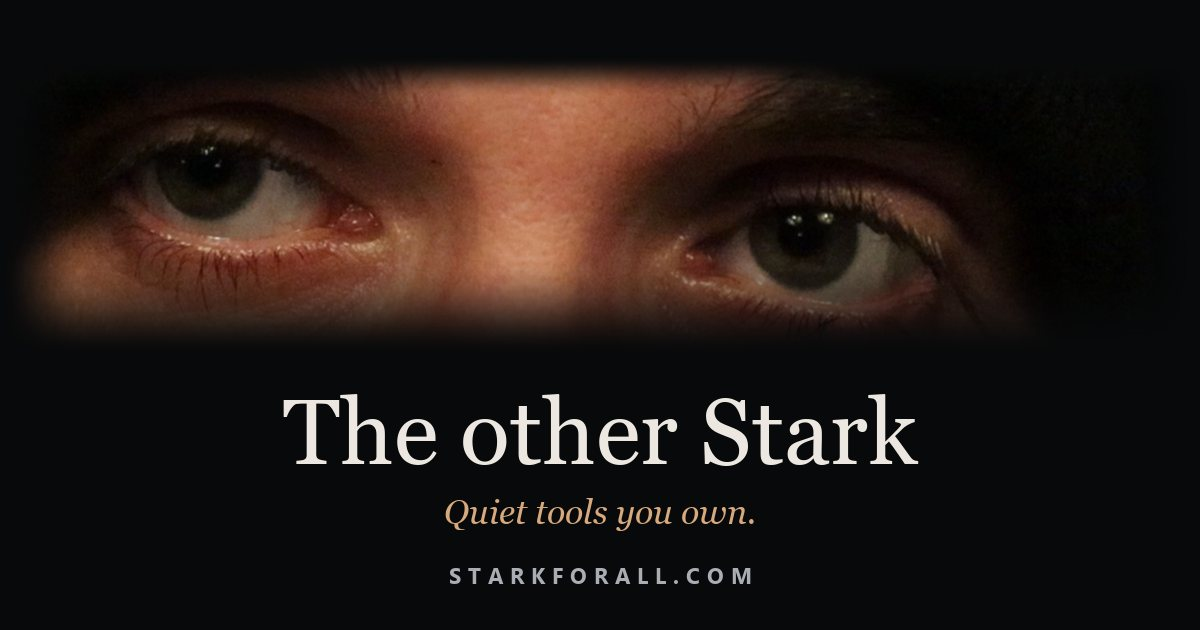
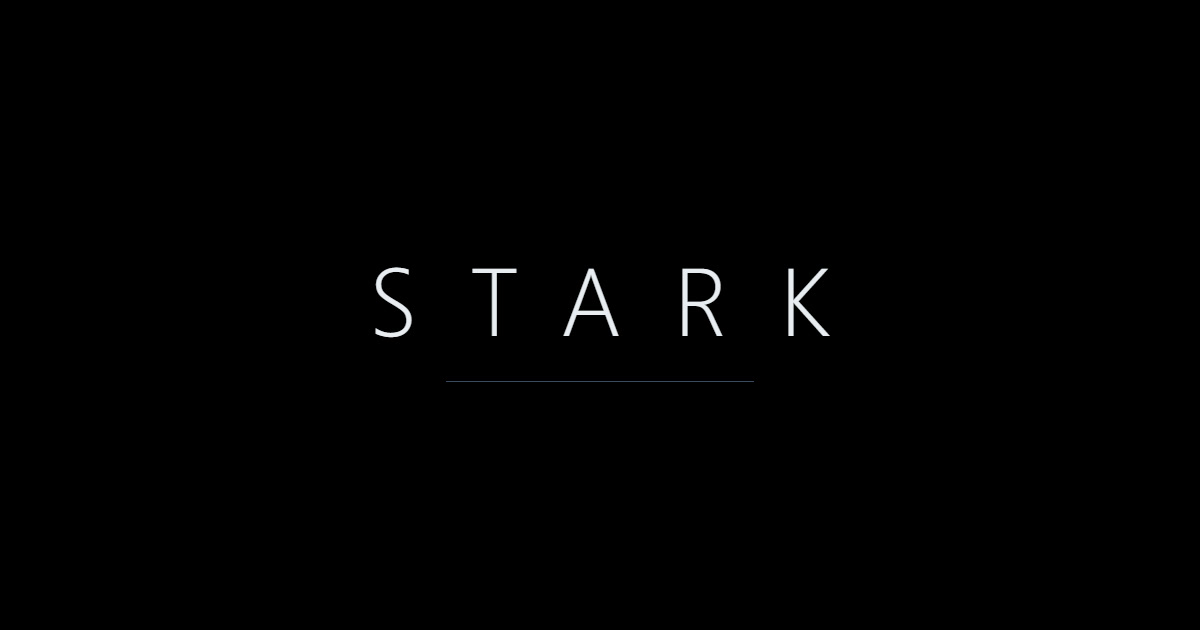
Rebuild share page in the APERTURE look; fifth message (Apex); ?site mode; wordmark images

diff --git a/index.html b/index.html
@@ -9,7 +9,7 @@
 <title>Share The other Stark</title>
 <meta name="description" content="One tap to share The other Stark: quiet tools you own.">
 <link rel="canonical" href="https://starkforall.com/other/">
-<meta name="theme-color" content="#08090a">
+<meta name="theme-color" content="#000000">
 <meta property="og:type" content="website">
 <meta property="og:site_name" content="Stark">
 <meta property="og:title" content="The other Stark">
@@ -19,39 +19,48 @@
 <meta property="og:image:type" content="image/jpeg">
 <meta property="og:image:width" content="1200">
 <meta property="og:image:height" content="630">
-<meta property="og:image:alt" content="A pair of eyes in low light above the words: The other Stark. Quiet tools you own.">
+<meta property="og:image:alt" content="STARK, a wordmark in pale capitals on black.">
 <meta name="twitter:card" content="summary_large_image">
 <meta name="twitter:title" content="The other Stark">
 <meta name="twitter:description" content="Everyone's searching Stark. We're the other one. Tools you own: pay once, works offline.">
 <meta name="twitter:image" content="https://starkforall.com/other/img/cover-1200x630.jpg">
 <link rel="icon" href="favicon.svg" type="image/svg+xml">
 <link rel="stylesheet" href="style.css">
-<script src="share.js" defer></script>
 </head>
 <body>
 <main>
 <header>
-<img class="poster" src="img/poster.jpg" width="540" height="960" alt="A pair of calm eyes in low light. Caption: Everyone's searching Stark.">
-<div><p class="kicker">STARK</p><h1>The other Stark</h1><p class="sub">One tap. Pick a message, then send it.</p></div>
+<p class="wm">STARK</p>
+<div class="line" aria-hidden="true"></div>
+<h1 id="title">The other Stark</h1>
+<p class="sub" id="sub">One tap. Pick a message, then send it.</p>
+<img class="frame only-o" src="img/frame.jpg" width="720" height="150" alt="A frame from the video: We're the other one.">
 </header>
-<button class="go" id="go" type="button" disabled>Share The other Stark</button>
+<button class="go" id="go" type="button" disabled><span class="go-t" id="go-t">Share The other Stark</span><span class="go-s" id="go-s">Video, message and link</span></button>
 <p class="status" id="status" role="status" aria-live="polite">Loading...</p>
 <section aria-labelledby="mh">
-<h2 id="mh">Message <span class="hint">(swipe or tap 1 to 4)</span></h2>
+<h2 id="mh">Message <span class="hint">swipe or tap 1 to 5</span></h2>
 <div class="msgs" id="msgs" tabindex="0" aria-label="Message choices, swipe sideways">
-<article class="msg" data-i="0"><p>Everyone's searching Stark. We're the other one. No suits of armour. Just tools you own: pay once, works offline, your data stays yours. https://starkforall.com/the-other-stark/</p></article>
-<article class="msg" data-i="1"><p>Quiet, private tools you own. Pay once, works offline, and your data stays on your computer. Try them free in your browser, nothing to install: https://starkforall.com/the-other-stark/</p></article>
-<article class="msg" data-i="2"><p>Scam calls, lost family papers, monthly fees, data leaving your home. The other Stark makes calm tools for ordinary trouble: no account, no cloud, nothing uploaded. Try one free: https://starkforall.com/the-other-stark/</p></article>
-<article class="msg" data-i="3"><p>Made by one of the broken, for everyone who has been last. The last shall be first. Tools you own: pay once, works offline, your data stays yours. https://starkforall.com/the-other-stark/</p></article>
+<article class="msg" data-m="o"><p>Everyone's searching Stark. We're the other one. No suits of armour. Just tools you own: pay once, works offline, your data stays yours. https://starkforall.com/the-other-stark/</p></article>
+<article class="msg" data-m="o"><p>Quiet, private tools you own. Pay once, works offline, and your data stays on your computer. Try them free in your browser, nothing to install: https://starkforall.com/the-other-stark/</p></article>
+<article class="msg" data-m="o"><p>Scam calls, lost family papers, monthly fees, data leaving your home. The other Stark makes calm tools for ordinary trouble: no account, no cloud, nothing uploaded. Try one free: https://starkforall.com/the-other-stark/</p></article>
+<article class="msg" data-m="o"><p>Made by one of the broken, for everyone who has been last. The last shall be first. Tools you own: pay once, works offline, your data stays yours. https://starkforall.com/the-other-stark/</p></article>
+<article class="msg" data-m="o"><p>Apex Protocol: cultivate creation, never overcome it. Ten apps run with the plug pulled, cannot read your data, ask for no account. Check the file. https://starkforall.com/apex/</p></article>
+<article class="msg" data-m="s"><p>Pull the plug. It still works. Ten Stark apps run offline, cannot read your data, ask for no account. Try them free: https://starkforall.com/try/</p></article>
+<article class="msg" data-m="s"><p>Pull the plug. It still works. Quiet tools you own: pay once, works offline, and your data stays on your computer. https://starkforall.com/</p></article>
+<article class="msg" data-m="s"><p>Pull the plug. It still works. Try one free in your browser, nothing to install, or see everything Stark makes: https://starkforall.com/try/ https://starkforall.com/</p></article>
+<article class="msg" data-m="s"><p>Scam calls, lost family papers, monthly fees, data leaving your home. Stark makes calm tools for ordinary trouble: no account, no cloud, nothing uploaded. Try one free: https://starkforall.com/try/</p></article>
+<article class="msg" data-m="s"><p>Apex Protocol: cultivate creation, never overcome it. Ten apps run with the plug pulled, cannot read your data, ask for no account. Check the file. https://starkforall.com/apex/</p></article>
 </div>
 <div class="tabs" id="tabs" role="group" aria-label="Choose a message"></div>
 </section>
 <section aria-labelledby="ah">
 <h2 id="ah">Or open an app with it filled in</h2>
 <ul class="apps" id="apps"></ul>
-<p class="save"><a class="btn" href="other-stark.mp4" download="The-other-Stark.mp4">Save the video</a></p>
+<p class="save only-o"><a class="btn" href="other-stark.mp4" download="The-other-Stark.mp4">Save the video</a></p>
 </section>
 </main>
-<footer><p>Made by Stark. <a href="https://starkforall.com/the-other-stark/">starkforall.com/the-other-stark</a></p></footer>
+<footer><p class="wm small">STARK</p><p id="foot">Made by Stark. <a href="https://starkforall.com/the-other-stark/">starkforall.com/the-other-stark</a></p></footer>
+<script src="share.js"></script>
 </body>
 </html>

diff --git a/style.css b/style.css
@@ -1,33 +1,40 @@
-:root{color-scheme:dark;--bg:#08090a;--panel:#0f1113;--line:#272c32;--text:#ece8e1;--muted:#a9aeb5;--accent:#d8a97c;--focus:#9cc4ff;--sans:system-ui,-apple-system,"Segoe UI",Roboto,"Helvetica Neue",Arial,sans-serif;--serif:"Iowan Old Style","Palatino Linotype",Palatino,Georgia,serif}
+:root{color-scheme:dark;--bg:#000;--ink:#E9EDF2;--mut:#E9EDF2a6;--dim:#E9EDF266;--line:#E9EDF22e;--acc:#9CC4FF;--f:"Segoe UI Variable Text","Segoe UI",system-ui,-apple-system,Roboto,sans-serif;--d:Bahnschrift,"Segoe UI Variable Display","Segoe UI",system-ui,-apple-system,Roboto,sans-serif}
 *,*::before,*::after{box-sizing:border-box}
-html{-webkit-text-size-adjust:100%;text-size-adjust:100%}
-body{margin:0;background:var(--bg);color:var(--text);font:1.0625rem/1.5 var(--sans);overflow-x:hidden;overflow-wrap:break-word}
+html{background:var(--bg);-webkit-text-size-adjust:100%;text-size-adjust:100%}
+body{margin:0;background:var(--bg);color:var(--ink);font:400 1.0625rem/1.55 var(--f);font-variant-numeric:tabular-nums;overflow-x:hidden;overflow-wrap:break-word;padding-top:env(safe-area-inset-top)}
 h1,h2,p,ul{margin:0}ul{padding:0;list-style:none}
-a{color:var(--accent)}
-:focus-visible{outline:2px solid var(--focus);outline-offset:3px;border-radius:6px}
+a{color:var(--acc);text-underline-offset:3px}
+:focus-visible{outline:2px solid var(--acc);outline-offset:3px;border-radius:2px}
 [hidden]{display:none!important}
-main{max-width:34rem;margin:0 auto;padding:1rem max(16px,env(safe-area-inset-right)) 1.5rem max(16px,env(safe-area-inset-left))}
-header{display:flex;gap:1rem;align-items:center;margin-bottom:1.25rem}
-.poster{width:4.5rem;height:auto;aspect-ratio:9/16;object-fit:cover;border-radius:10px;border:1px solid var(--line);flex:none}
-.kicker{color:var(--accent);font-size:.78rem;font-weight:700;letter-spacing:.32em}
-h1{font:600 1.9rem/1.15 var(--serif)}
-.sub{color:var(--muted);font-size:.95rem}
-.go{display:block;width:100%;min-height:9rem;border:0;border-radius:20px;background:var(--accent);color:#1a1209;font:700 1.8rem/1.15 var(--sans);padding:1rem;cursor:pointer}
-.go:disabled{opacity:.6;cursor:wait}
+main{max-width:34rem;margin:0 auto;padding:clamp(28px,8vw,56px) max(16px,env(safe-area-inset-right)) 1.5rem max(16px,env(safe-area-inset-left))}
+header{text-align:center;margin-bottom:2rem}
+.wm{font:300 .95rem var(--d);letter-spacing:.42em;padding-left:.42em;color:var(--ink)}
+.line{height:1px;margin:1.1rem auto 1.9rem;background:linear-gradient(90deg,transparent,var(--acc),transparent);opacity:.8}
+h1{font:300 clamp(1.35rem,7vw,2rem)/1.15 var(--d);text-transform:uppercase;letter-spacing:.25em;padding-left:.25em;text-wrap:balance}
+.sub{margin-top:.9rem;color:var(--mut);font-size:1rem}
+.frame{display:block;width:100%;height:auto;margin:1.8rem 0 0;border-top:1px solid #9CC4FF55}
+.go{display:flex;flex-direction:column;align-items:center;justify-content:center;gap:.5rem;width:100%;min-height:7.5rem;border:0;border-radius:2px;background:var(--ink);color:#000;padding:1rem;cursor:pointer;text-align:center}
+.go-t{font:600 clamp(1.25rem,6.4vw,1.6rem)/1.15 var(--f)}
+.go-s{font:400 .74rem var(--d);letter-spacing:.2em;text-transform:uppercase;opacity:.7}
+.go:hover{box-shadow:0 0 0 2px #9CC4FF88}
+.go:disabled{opacity:.5;cursor:wait}
 .go:active{transform:scale(.985)}
-.status{min-height:1.5rem;margin:.6rem 0 1.25rem;color:var(--muted);font-size:.95rem;text-align:center}
-section{margin-top:1.5rem}
-h2{font-size:1rem;font-weight:600;margin-bottom:.6rem}
-.hint{color:var(--muted);font-weight:400;font-size:.88rem}
+.status{min-height:1.5rem;margin:.8rem 0 1.4rem;color:var(--mut);font-size:.92rem;text-align:center}
+section{margin-top:2.25rem}
+h2{font:400 .8rem var(--d);letter-spacing:.2em;text-transform:uppercase;color:var(--dim);margin-bottom:.9rem;padding-bottom:.7rem;border-bottom:1px solid var(--line)}
+.hint{letter-spacing:.1em;text-transform:none;font-family:var(--f)}
 .msgs{display:flex;gap:.75rem;overflow-x:auto;scroll-snap-type:x mandatory;scrollbar-width:none;-webkit-overflow-scrolling:touch}
 .msgs::-webkit-scrollbar{display:none}
-.msg{flex:0 0 100%;scroll-snap-align:center;background:var(--panel);border:1px solid var(--line);border-radius:14px;padding:1rem;font-size:1rem}
-.tabs{display:flex;gap:.5rem;justify-content:center;margin-top:.75rem}
-.tabs button{min-width:3rem;min-height:3rem;border-radius:50%;border:1px solid var(--line);background:var(--panel);color:var(--text);font:600 1rem var(--sans);cursor:pointer}
-.tabs button[aria-pressed=true]{background:var(--text);color:var(--bg);border-color:var(--text)}
+.msg{flex:0 0 100%;scroll-snap-align:center;border:1px solid var(--line);border-left:1px solid var(--acc);border-radius:2px;padding:1.1rem 1rem;font-size:1.02rem;line-height:1.55}
+.tabs{display:flex;gap:.5rem;justify-content:center;margin-top:.9rem}
+.tabs button{min-width:3rem;min-height:3rem;border-radius:2px;border:1px solid var(--line);background:transparent;color:var(--ink);font:500 1rem var(--f);cursor:pointer}
+.tabs button[aria-pressed=true]{background:var(--ink);color:#000;border-color:var(--ink)}
 .apps{display:grid;grid-template-columns:1fr 1fr;gap:.6rem}
-.apps a,.apps button,.btn{display:flex;align-items:center;justify-content:center;min-height:3.25rem;padding:.5rem .75rem;border-radius:12px;border:1px solid var(--line);background:var(--panel);color:var(--text);font:600 1rem var(--sans);text-decoration:none;cursor:pointer;width:100%}
-.apps a:hover,.apps button:hover,.btn:hover{border-color:var(--accent)}
+.apps a,.apps button,.btn{display:flex;align-items:center;justify-content:center;min-height:3.25rem;padding:.5rem .75rem;border-radius:2px;border:1px solid var(--line);background:transparent;color:var(--ink);font:500 1rem var(--f);text-decoration:none;cursor:pointer;width:100%}
+.apps a:hover,.apps button:hover,.btn:hover{border-color:var(--acc)}
 .save{margin-top:.6rem}
-footer{max-width:34rem;margin:0 auto;padding:1rem max(16px,env(safe-area-inset-right)) 2rem max(16px,env(safe-area-inset-left));color:var(--muted);font-size:.9rem;text-align:center}
+footer{max-width:34rem;margin:0 auto;padding:1.5rem max(16px,env(safe-area-inset-right)) max(2.2rem,env(safe-area-inset-bottom)) max(16px,env(safe-area-inset-left));color:var(--dim);font-size:.85rem;text-align:center}
+footer .wm.small{font-size:.8rem;color:var(--mut);margin-bottom:.5rem}
+footer a{color:var(--mut)}
 @media (prefers-reduced-motion:reduce){.msgs{scroll-behavior:auto}.go:active{transform:none}}
+.apps li:last-child{grid-column:1/-1}

diff --git a/share.js b/share.js
@@ -1,33 +1,54 @@
 (function () {
   'use strict';
-  var URL_ = 'https://starkforall.com/the-other-stark/';
   var VIDEO = 'other-stark.mp4';
+  var site = /(^|[?&])site(=|&|$)/.test(location.search);
   var go = document.getElementById('go');
   var statusEl = document.getElementById('status');
   var msgsEl = document.getElementById('msgs');
   var tabsEl = document.getElementById('tabs');
   var appsEl = document.getElementById('apps');
-  var cards = Array.prototype.slice.call(msgsEl.querySelectorAll('.msg'));
+  var TITLE = site ? 'Stark' : 'The other Stark';
   var cur = 0;
   var file = null;
   var filePromise = null;
+  var cards;
+
+  function byId(id) { return document.getElementById(id); }
+  function setText(id, t) { var e = byId(id); if (e) e.textContent = t; }
+
+  // One page, two modes. Default: The other Stark (with the video). ?site: the whole site, no video.
+  var mode = site ? 's' : 'o';
+  Array.prototype.slice.call(msgsEl.querySelectorAll('.msg')).forEach(function (c) {
+    if (c.getAttribute('data-m') !== mode) c.parentNode.removeChild(c);
+  });
+  cards = Array.prototype.slice.call(msgsEl.querySelectorAll('.msg'));
+  if (site) {
+    Array.prototype.slice.call(document.querySelectorAll('.only-o')).forEach(function (e) { e.parentNode.removeChild(e); });
+    document.title = 'Share Stark';
+    setText('title', 'Pull the plug.');
+    setText('sub', 'It still works. One tap, then send it.');
+    setText('go-t', 'Share Stark');
+    setText('go-s', 'Message and link');
+    byId('foot').innerHTML = 'Made by Stark. <a href="https://starkforall.com/">starkforall.com</a>';
+  }
 
   function say(m) { statusEl.textContent = m; }
   function msg() { return cards[cur].textContent.replace(/\s+/g, ' ').trim(); }
-  function body() { var m = msg(); return m.split(URL_).join('').trim(); }
+  function firstUrl() { var m = msg().match(/https?:\/\/[^\s]+/); return m ? m[0] : 'https://starkforall.com/'; }
+  function body() { return msg().replace(/\s*https?:\/\/[^\s]+/g, '').replace(/\s+/g, ' ').replace(/[:\s]+$/, ''); }
   function enc(s) { return encodeURIComponent(s); }
 
   var apps = [
     ['Messages', function (m) { return 'sms:?&body=' + enc(m); }],
     ['WhatsApp', function (m) { return 'https://wa.me/?text=' + enc(m); }],
     ['X', function (m) { return 'https://twitter.com/intent/tweet?text=' + enc(m); }],
-    ['Facebook', function (m) { return 'https://www.facebook.com/sharer/sharer.php?u=' + enc(URL_) + '&quote=' + enc(body()); }],
+    ['Facebook', function (m) { return 'https://www.facebook.com/sharer/sharer.php?u=' + enc(firstUrl()) + '&quote=' + enc(body()); }],
     ['LinkedIn', function (m) { return 'https://www.linkedin.com/feed/?shareActive=true&text=' + enc(m); }],
-    ['Reddit', function (m) { return 'https://www.reddit.com/submit?url=' + enc(URL_) + '&title=' + enc(body().slice(0, 290)); }],
+    ['Reddit', function (m) { return 'https://www.reddit.com/submit?url=' + enc(firstUrl()) + '&title=' + enc(body().slice(0, 290)); }],
     ['Bluesky', function (m) { return 'https://bsky.app/intent/compose?text=' + enc(m); }],
-    ['Telegram', function (m) { return 'https://t.me/share/url?url=' + enc(URL_) + '&text=' + enc(body()); }],
+    ['Telegram', function (m) { return 'https://t.me/share/url?url=' + enc(firstUrl()) + '&text=' + enc(body()); }],
     ['Threads', function (m) { return 'https://www.threads.net/intent/post?text=' + enc(m); }],
-    ['Email', function (m) { return 'mailto:?subject=' + enc('The other Stark') + '&body=' + enc(m); }]
+    ['Email', function (m) { return 'mailto:?subject=' + enc(TITLE) + '&body=' + enc(m); }]
   ];
   var links = [];
   apps.forEach(function (a) {
@@ -75,6 +96,10 @@
     if (e.key === 'ArrowRight' && cur < cards.length - 1) { select(cur + 1, true); e.preventDefault(); }
     if (e.key === 'ArrowLeft' && cur > 0) { select(cur - 1, true); e.preventDefault(); }
   });
+  document.addEventListener('keydown', function (e) {
+    var n = /^[1-9]$/.test(e.key) ? +e.key : 0;
+    if (n && n <= cards.length && !e.ctrlKey && !e.metaKey && !e.altKey) select(n - 1, true);
+  });
 
   function copy() {
     var m = msg();
@@ -86,6 +111,7 @@
   cb.addEventListener('click', copy);
 
   function loadFile() {
+    if (site) return Promise.resolve(null);
     if (!filePromise) {
       filePromise = fetch(VIDEO).then(function (r) {
         if (!r.ok) throw new Error('video');
@@ -101,8 +127,8 @@
   function doShare() {
     var m = msg();
     var withFile = file && navigator.canShare && navigator.canShare({ files: [file] });
-    var data = withFile ? { files: [file], text: m } : { text: body(), url: URL_ };
-    if (withFile) data.title = 'The other Stark';
+    var data = withFile ? { files: [file], text: m } : { text: body(), url: firstUrl() };
+    if (withFile || site) data.title = TITLE;
     return navigator.share(data).catch(function (e) {
       if (e && e.name === 'AbortError') return;
       return copy();
@@ -111,13 +137,13 @@
 
   go.addEventListener('click', function () {
     if (!navigator.share) { copy(); return; }
-    if (file) { doShare(); return; }
+    if (file || site) { doShare(); return; }
     go.disabled = true; say('Getting the video...');
     loadFile().then(function () { go.disabled = false; say(''); return doShare(); });
   });
 
   select(0, false);
   go.disabled = false;
-  say(navigator.share ? 'Tap to share the video and message.' : 'Sharing is not available here: pick an app below or copy the message.');
+  say(navigator.share ? (site ? 'Tap to share the message and link.' : 'Tap to share the video and message.') : 'Sharing is not available here: pick an app below or copy the message.');
   loadFile();
 })();
